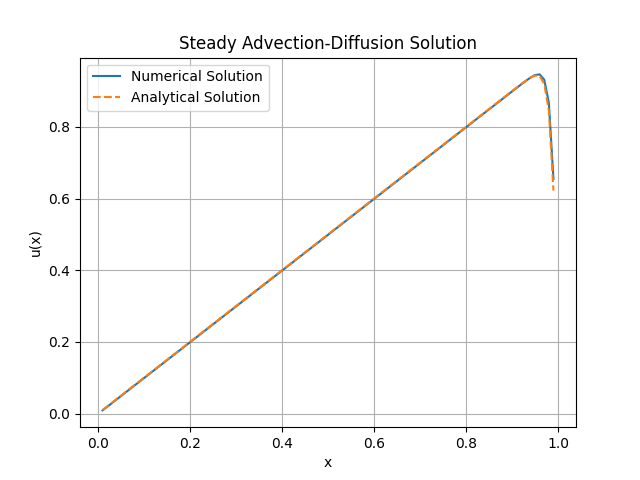
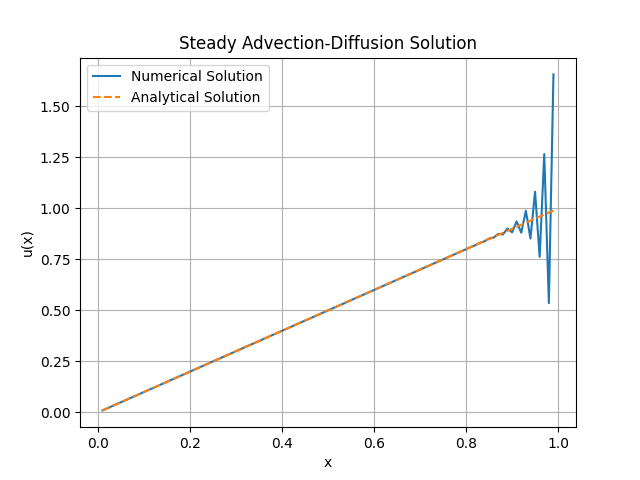
fixed problem a

diff --git a/hw4/HW4Alex/p1c.py b/hw4/HW4Alex/p1c.py
@@ -1,40 +1,52 @@
 import numpy as np
-import scipy as sp
+import scipy.optimize as opt
+import scipy.sparse.linalg as spla
 import matplotlib.pyplot as plt
 from FEM import assemble, build_mesh_geometric, build_R
 
-L = 1
-c = 1
+L = 1.0
+c = 1.0
 E = 20
-nu = 10e-3
-s = np.linspace(0.87, 0.91, 10)
+nu = 1e-3   # was incorrectly 10e-3 (=0.01); correct value is 1e-3 (=0.001)
+Pe = c / nu
 
-for si in s:
-    geometric_elements = build_mesh_geometric(E, L=L, s=si)
 
-    A_bar, B_bar, C_bar = assemble(geometric_elements)
-
+def max_rel_error(s):
+    nodes = build_mesh_geometric(E, L=L, s=s)
+    A_bar, B_bar, C_bar = assemble(nodes, c=c)
     R = build_R(E)
-
     A = R @ A_bar @ R.T
     B = R @ B_bar @ R.T
     C = R @ C_bar @ R.T
 
-    #steady advection diffusion
-    #c u_x - nu u_xx = f
-    # Au + Cu = (A + C) u = Bf
-    f = np.ones(E - 1)  # source term at interior nodes
-    u = sp.sparse.linalg.spsolve(nu * A + C, B @ f)
+    f = np.ones(len(nodes))
+    u = spla.spsolve(nu * A + C, R @ (B_bar @ f))
 
-    # Analytical solution: -nu u'' + c u' = 1, u(0)=u(1)=0
-    # u(x) = (1 - exp(Pe*x)) / (c*(exp(Pe) - 1)) + x/c,  Pe = c/nu
-    x = geometric_elements
-    x_int = x[1:-1]
-    Pe = c / nu
-    u_exact = (1 - np.exp(Pe * x_int)) / (c * (np.exp(Pe) - 1)) + x_int / c
+    x_int = nodes[1:-1]
+    u_exact = x_int - np.exp(Pe * (x_int - L))
 
-    max_error = np.max(np.abs(u - u_exact))
-    print(f"s={si:.2f}, Maximum error vs analytical solution: {max_error:.6e}")
+    return np.max(np.abs(u - u_exact) / np.abs(u_exact))
 
 
-#s=0.89, Maximum error vs analytical solution: 3.548119e-02
+# Minimize over s in (0, 1) — s must stay away from 0 and 1
+result = opt.minimize_scalar(max_rel_error, bounds=(0.3, 0.999), method='bounded')
+s_opt = result.x
+err_opt = result.fun
+print(f"Optimal s = {s_opt:.6f}")
+print(f"Minimum max relative error = {err_opt:.6e}")
+
+# Error curve over a wide range for plotting
+s_vals = np.linspace(0.3, 0.999, 200)
+errors = np.array([max_rel_error(s) for s in s_vals])
+
+plt.figure()
+plt.plot(s_vals, errors, 'k-', linewidth=1.5, label='Error curve')
+plt.axvline(s_opt, color='r', linestyle='--', label=f'Optimal s = {s_opt:.4f}')
+plt.scatter([s_opt], [err_opt], color='r', zorder=5)
+plt.xlabel('Scale factor s')
+plt.ylabel('Max pointwise relative error')
+plt.title(f'Error vs. s  (E={E}, Pe={Pe:.0f})')
+plt.legend()
+plt.grid(True, which='both', ls=':')
+plt.savefig('1c.png')
+plt.close()

diff --git a/hw4/HW4Alex/p1b.py b/hw4/HW4Alex/p1b.py
@@ -6,7 +6,7 @@ from FEM import assemble, build_mesh_geometric, build_R
 L = 1
 c = 1
 E = 20
-nu = 10e-3
+nu = 1e-3
 
 geometric_elements = build_mesh_geometric(E, L=L)
 
@@ -21,22 +21,27 @@ C = R @ C_bar @ R.T
 #steady advection diffusion
 #c u_x - nu u_xx = f
 # Au + Cu = (A + C) u = Bf
-f = np.ones(E - 1)  # source term at interior nodes
-u = sp.sparse.linalg.spsolve(nu * A + C, B @ f)
+f = np.ones(len(geometric_elements))  # source term at interior nodes
+u = sp.sparse.linalg.spsolve(nu * A + C, R @ (B_bar @ f))
 
 # Analytical solution: -nu u'' + c u' = 1, u(0)=u(1)=0
 # u(x) = (1 - exp(Pe*x)) / (c*(exp(Pe) - 1)) + x/c,  Pe = c/nu
 x = geometric_elements
 x_int = x[1:-1]
 Pe = c / nu
-u_exact = (1 - np.exp(Pe * x_int)) / (c * (np.exp(Pe) - 1)) + x_int / c
+u_exact = x_int / c - (L / c) * np.exp(Pe * (x_int - L))
 
-max_error = np.max(np.abs(u - u_exact))
-print(f"Maximum error vs analytical solution: {max_error:.6e}")
+rel_error = np.abs(u - u_exact) / np.abs(u_exact)
+max_rel_error = np.max(rel_error)
+print(f"Maximum pointwise relative error: {max_rel_error:.6e}")
+
+# Build full solution vector (prepend/append boundary values) for plotting
+u_full = np.concatenate(([0.0], u, [0.0]))
+u_exact_full = np.concatenate(([0.0], u_exact, [0.0]))
 
 # Plot the solution
-plt.plot(x_int, u, label='Numerical Solution')
-plt.plot(x_int, u_exact, '--', label='Analytical Solution')
+plt.plot(x, u_exact_full, 'k-', linewidth=1.5, label='Analytical Solution')
+plt.plot(x, u_full, 'bo-', markersize=5, markerfacecolor='b', label='Numerical Solution')
 plt.xlabel('x')
 plt.ylabel('u(x)')
 plt.title('Steady Advection-Diffusion Solution')

diff --git a/hw4/HW4Alex/p1a.py b/hw4/HW4Alex/p1a.py
@@ -6,7 +6,7 @@ from FEM import assemble, build_mesh_uniform, build_R
 L = 1
 c = 1
 N = 100
-nu = 10e-3
+nu = 1e-3
 
 uniform_elements = build_mesh_uniform(N, L=L)
 
@@ -21,15 +21,15 @@ C = R @ C_bar @ R.T
 #steady advection diffusion
 #c u_x - nu u_xx = f
 # Au + Cu = (A + C) u = Bf
-f = np.ones(N - 1)  # source term at interior nodes
-u = sp.sparse.linalg.spsolve(nu * A + C, B @ f)
+RHS = R @ (B_bar @ np.ones(len(uniform_elements)))
+u = sp.sparse.linalg.spsolve(nu * A + C, RHS)
 
 # Analytical solution: -nu u'' + c u' = 1, u(0)=u(1)=0
 # u(x) = (1 - exp(Pe*x)) / (c*(exp(Pe) - 1)) + x/c,  Pe = c/nu
 x = np.linspace(0, L, N + 1)
 x_int = x[1:-1]
 Pe = c / nu
-u_exact = (1 - np.exp(Pe * x_int)) / (c * (np.exp(Pe) - 1)) + x_int / c
+u_exact = x_int / c - (L / c) * np.exp(Pe * (x_int - L))
 
 max_error = np.max(np.abs(u - u_exact))
 print(f"Maximum error vs analytical solution: {max_error:.6e}")
